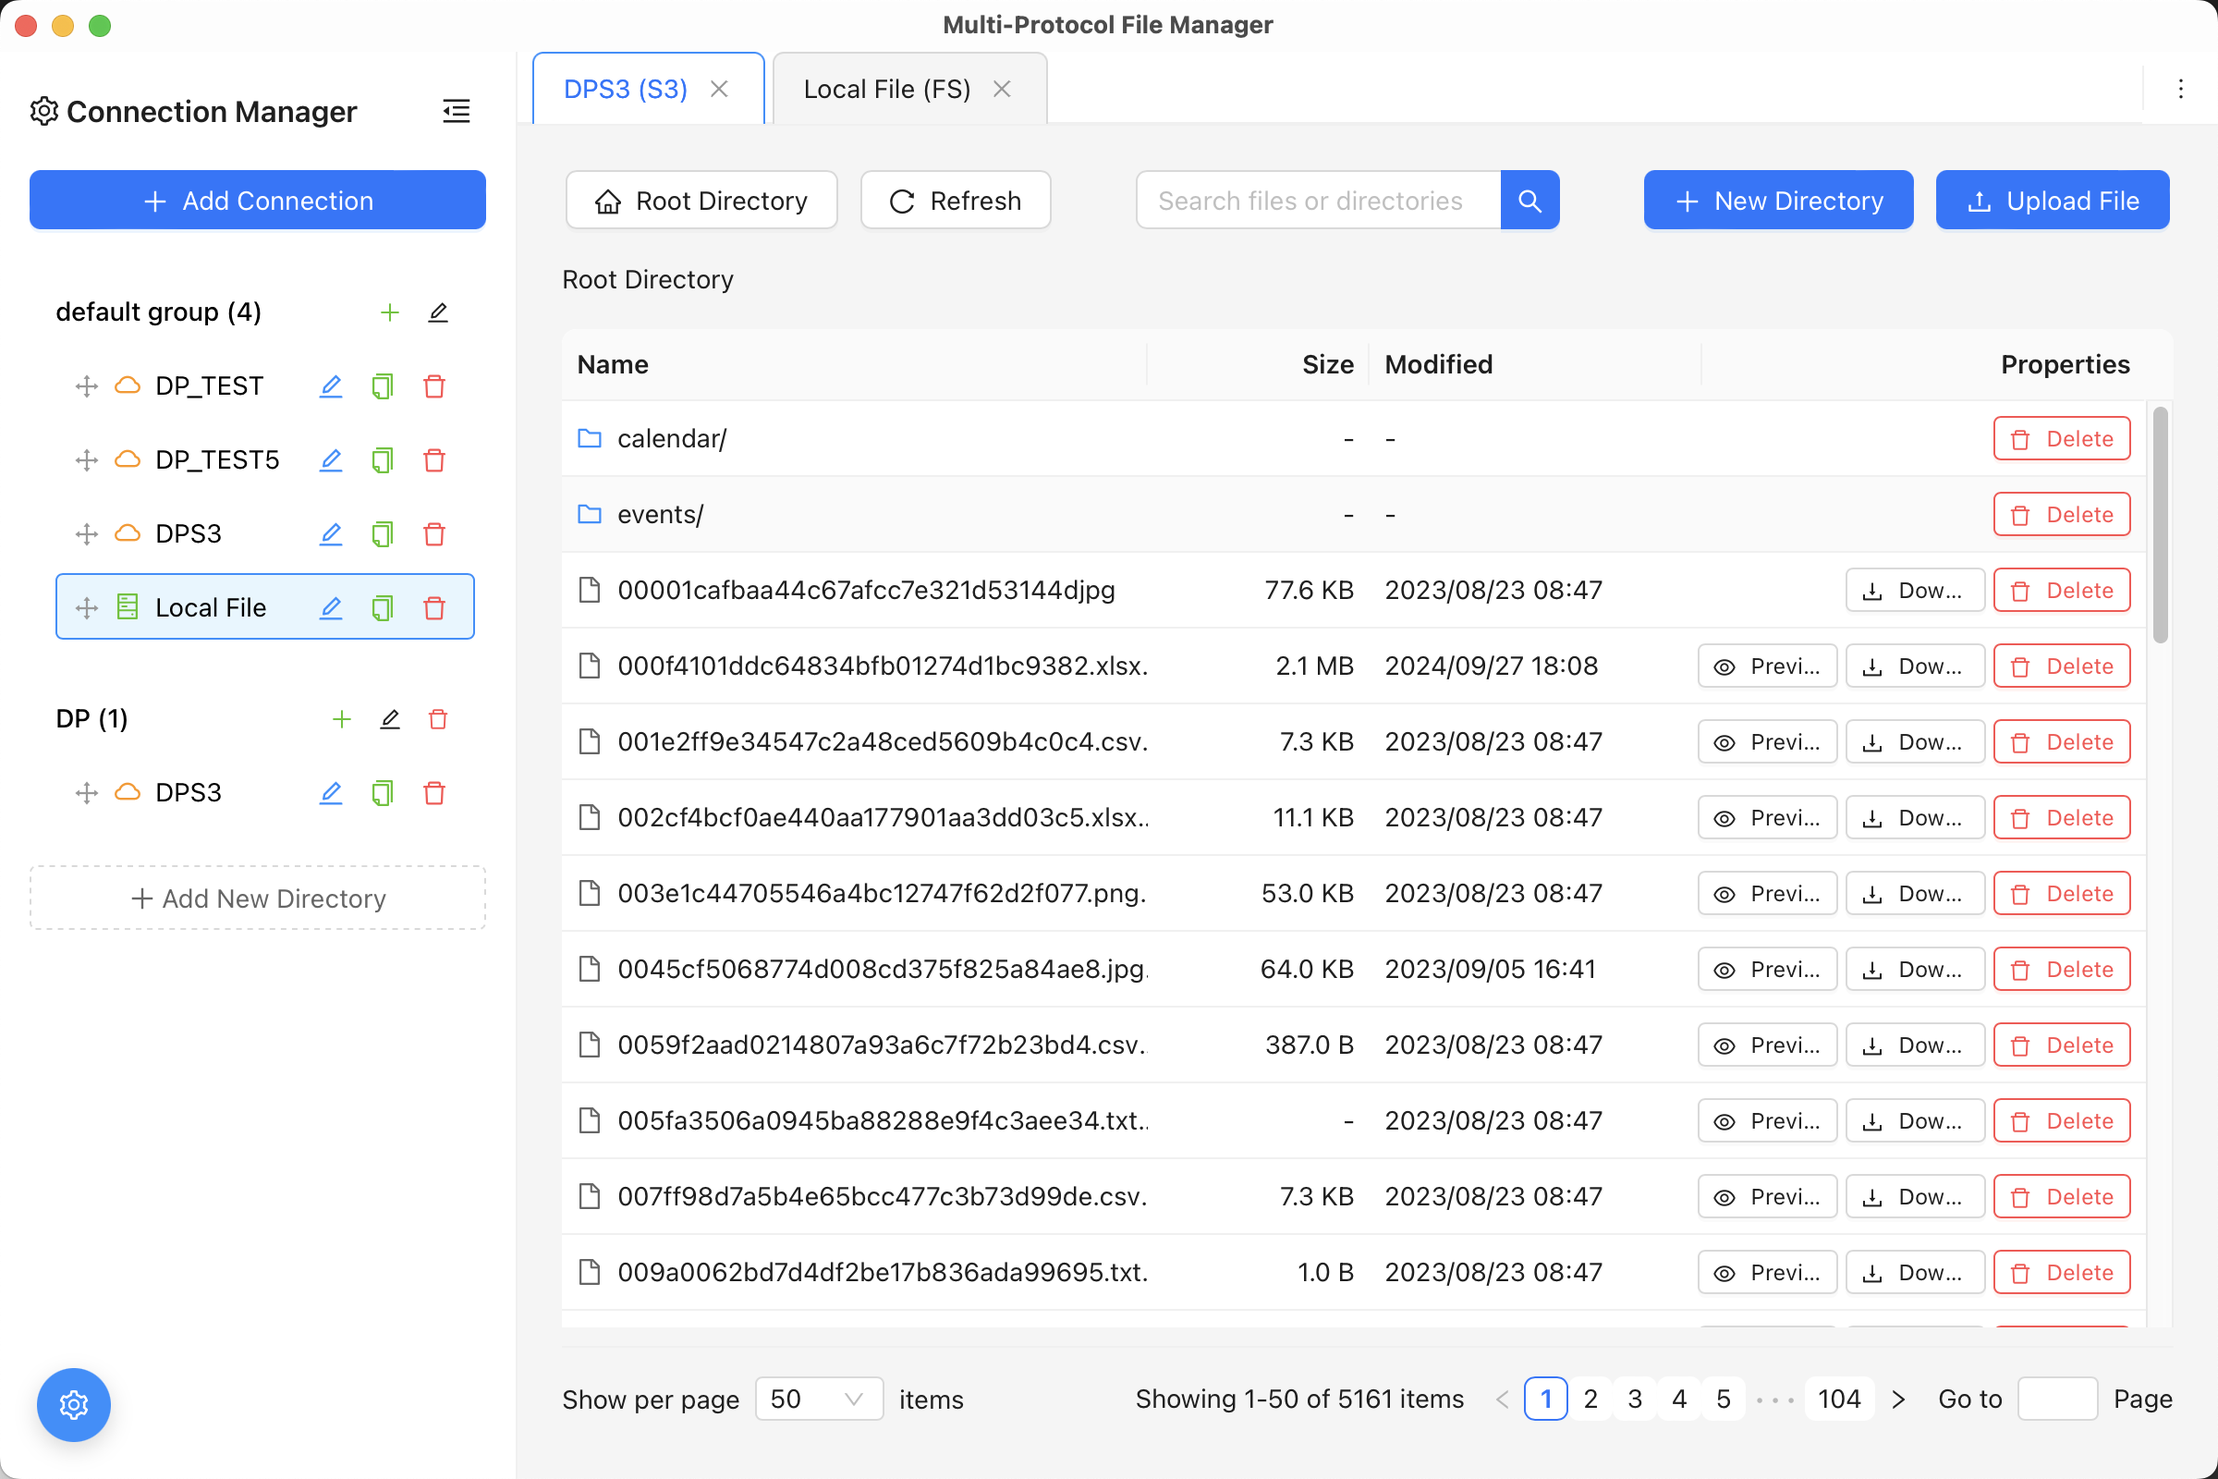
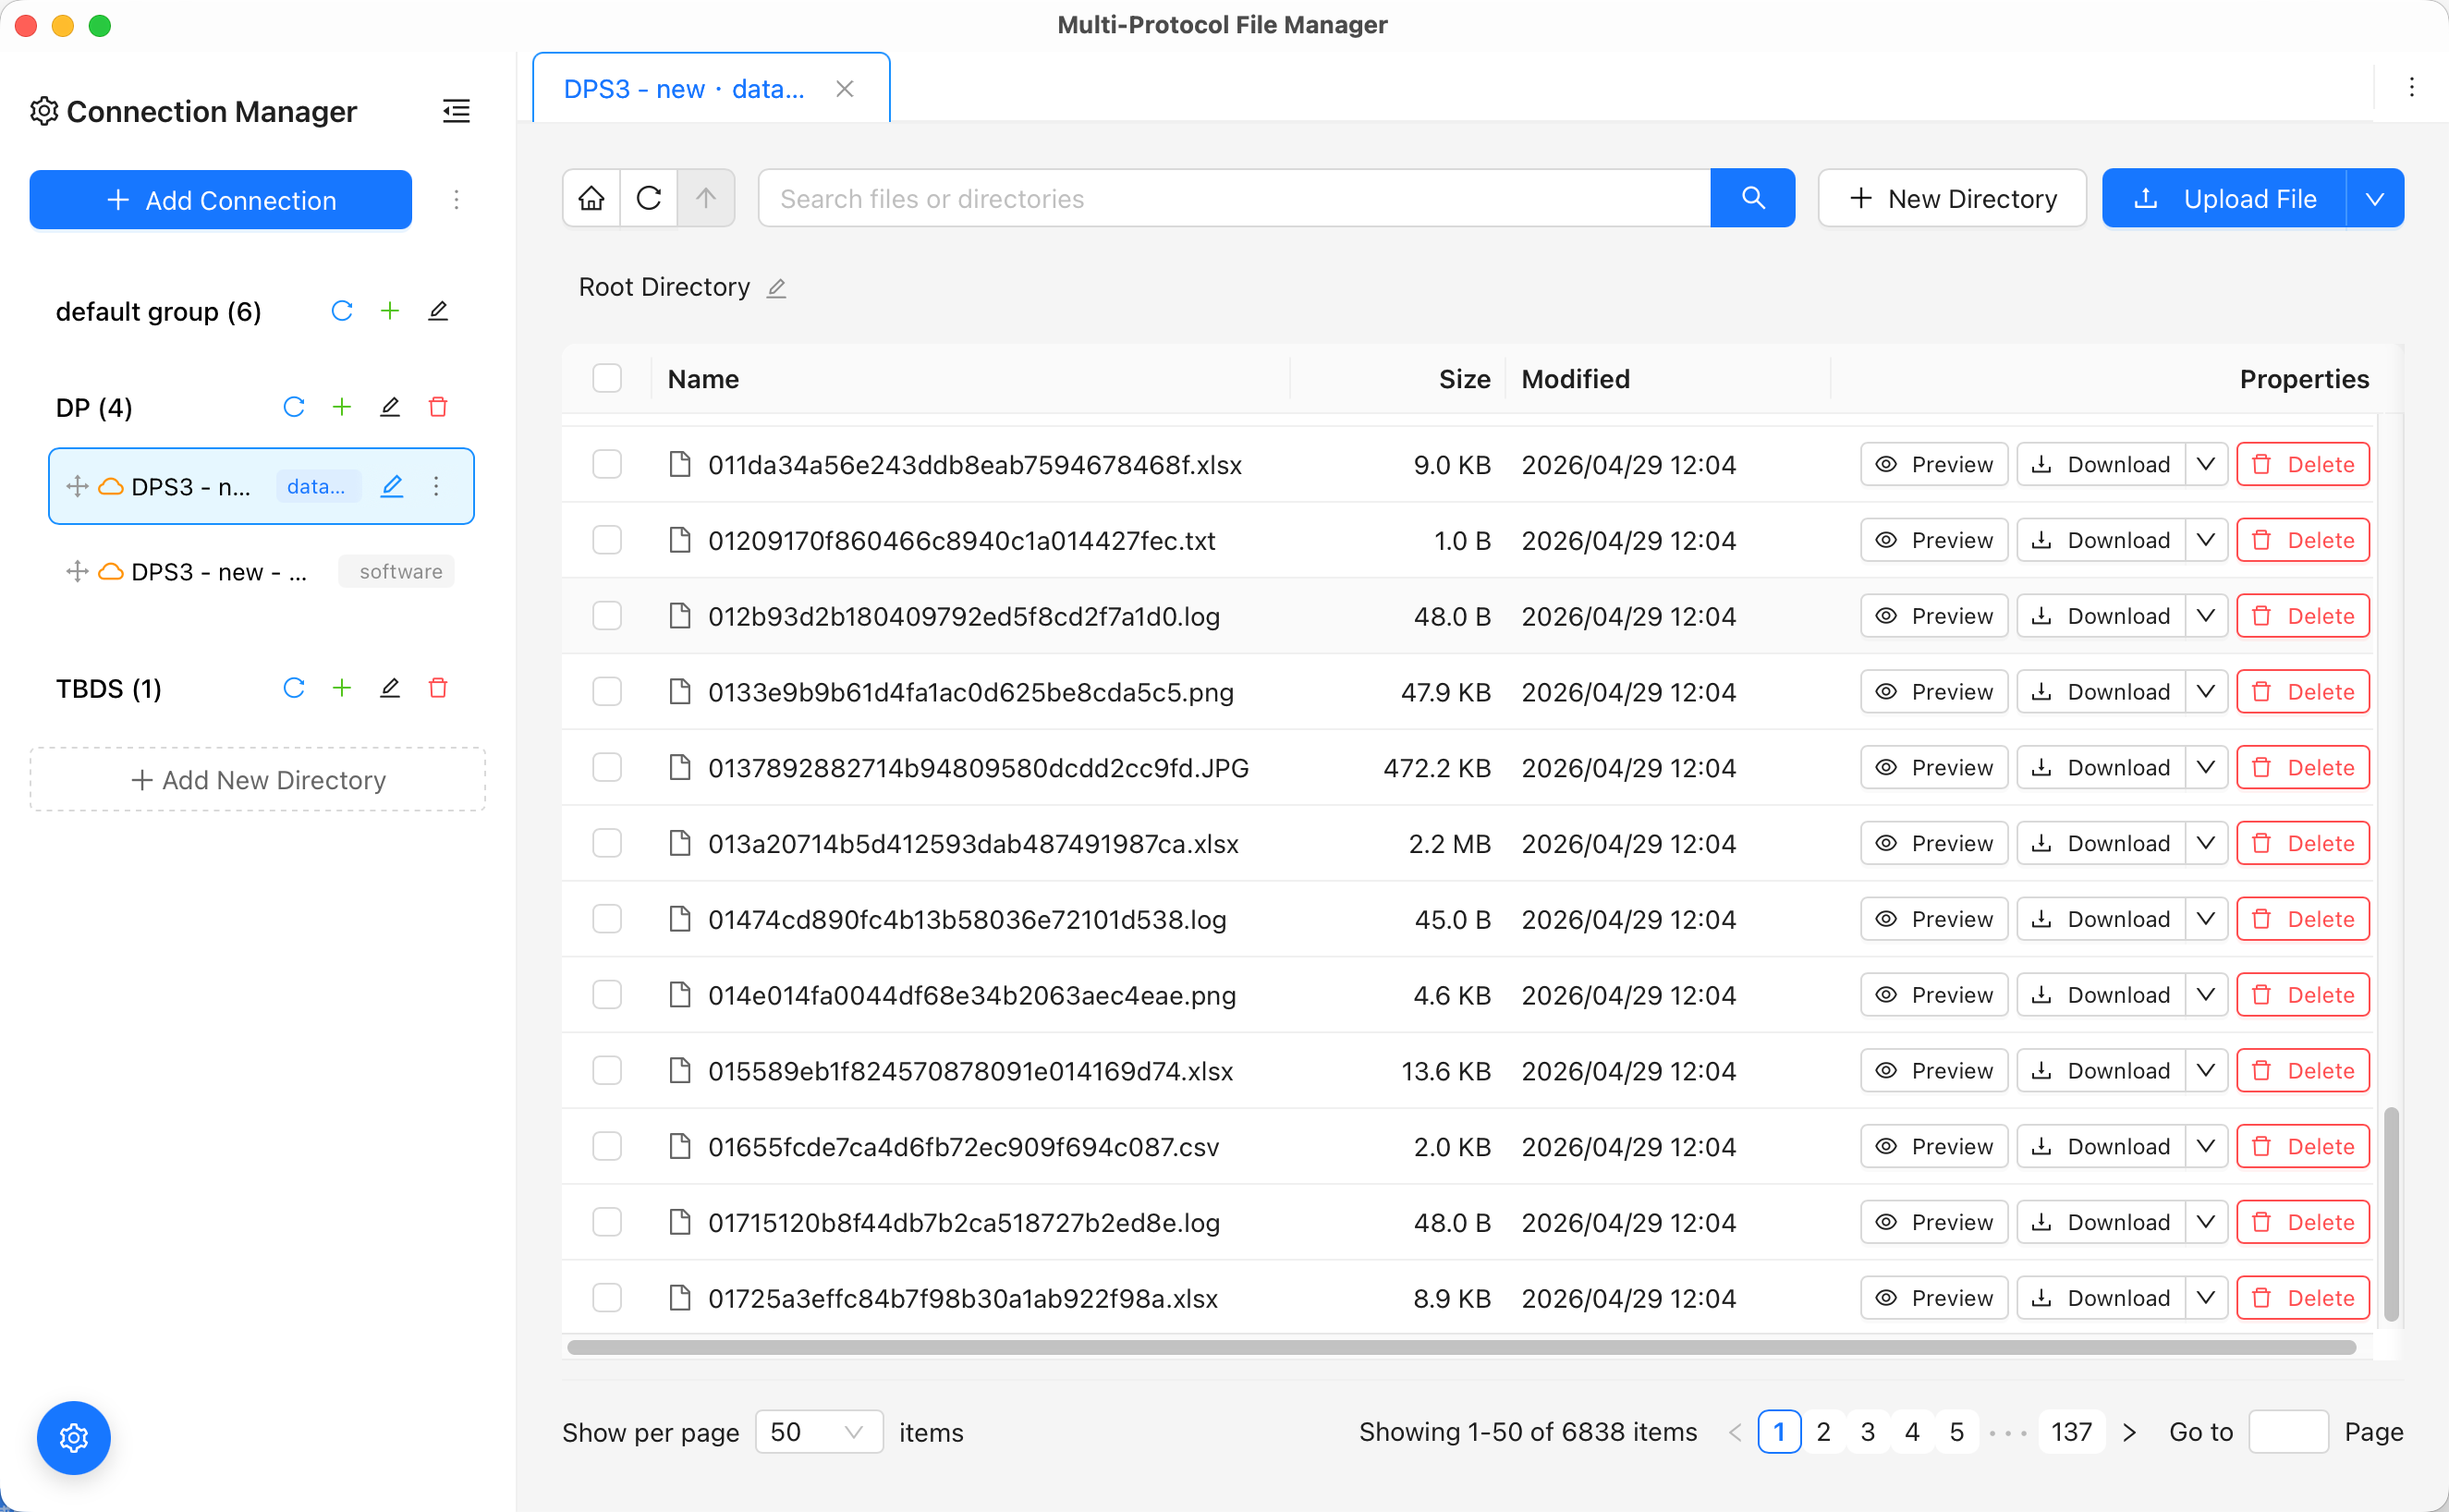
feat: enhance FileManager layout and table height calculation

diff --git a/ui/src/components/FileManager/hooks/useTableHeight.ts b/ui/src/components/FileManager/hooks/useTableHeight.ts
@@ -1,26 +1,47 @@
-import { useEffect } from 'react';
-import { calculateTableHeight } from '../utils';
-import { RESERVED_HEIGHT, MIN_TABLE_HEIGHT, MAX_TABLE_HEIGHT } from '../constants';
+import { useEffect, type RefObject, type DependencyList } from 'react';
+import { MIN_TABLE_HEIGHT } from '../constants';
+
+/** Ant Design small Table 表头高度（首次渲染 thead 尚未挂载时的回退值） */
+const TABLE_HEADER_HEIGHT_FALLBACK = 39;
 
 /**
- * 表格高度动态计算 Hook
+ * 根据表格容器实际高度动态计算 scroll.y，使表格填满 flex 剩余区域，避免底部空白。
  */
-export const useTableHeight = (onHeightChange: (height: number) => void) => {
+export const useTableHeight = (
+  containerRef: RefObject<HTMLElement | null>,
+  onHeightChange: (height: number) => void,
+  remeasureDeps: DependencyList = []
+) => {
   useEffect(() => {
-    const handleHeightCalculation = () => {
-      const height = calculateTableHeight(RESERVED_HEIGHT, MIN_TABLE_HEIGHT, MAX_TABLE_HEIGHT);
-      onHeightChange(height);
+    const container = containerRef.current;
+    if (!container) return;
+
+    const updateHeight = () => {
+      const containerHeight = container.clientHeight;
+      if (containerHeight <= 0) return;
+
+      const header = container.querySelector('.ant-table-thead');
+      const headerHeight =
+        header?.getBoundingClientRect().height ?? TABLE_HEADER_HEIGHT_FALLBACK;
+      const scrollHeight = Math.floor(containerHeight - headerHeight);
+
+      if (scrollHeight >= MIN_TABLE_HEIGHT) {
+        onHeightChange(scrollHeight);
+      }
     };
 
-    // 初始计算
-    handleHeightCalculation();
-    
-    // 监听窗口大小变化
-    window.addEventListener('resize', handleHeightCalculation);
-    
-    // 清理事件监听器
+    const observer = new ResizeObserver(() => {
+      requestAnimationFrame(updateHeight);
+    });
+    observer.observe(container);
+
+    updateHeight();
+    const timer = window.setTimeout(updateHeight, 0);
+
     return () => {
-      window.removeEventListener('resize', handleHeightCalculation);
+      observer.disconnect();
+      window.clearTimeout(timer);
     };
-  }, [onHeightChange]);
+    // eslint-disable-next-line react-hooks/exhaustive-deps
+  }, [containerRef, onHeightChange, ...remeasureDeps]);
 };

diff --git a/ui/src/components/FileManager/FileManagerModular.tsx b/ui/src/components/FileManager/FileManagerModular.tsx
@@ -1,4 +1,4 @@
-import React, { useEffect, useCallback, useMemo } from 'react';
+import React, { useEffect, useCallback, useMemo, useRef } from 'react';
 import { Layout, Table, Modal, Input, Typography, Spin } from 'antd';
 import { useAppI18n } from '../../i18n/hooks/useI18n';
 import FilePreview from '../FilePreview';
@@ -41,12 +41,18 @@ const FileManager: React.FC<FileManagerProps> = ({ connection }) => {
   const { state, updateState, updateMultipleState, resetState } = useFileManagerState();
   const fileSelection = useFileSelection();
 
-  // 表格高度计算
+  // 表格高度：按容器实际高度计算，填满 flex 剩余区域
+  const tableContainerRef = useRef<HTMLDivElement>(null);
   const handleHeightChange = useCallback((height: number) => {
     updateState('tableHeight', height);
   }, [updateState]);
-  
-  useTableHeight(handleHeightChange);
+
+  useTableHeight(tableContainerRef, handleHeightChange, [
+    state.loading,
+    state.files.length,
+    state.searchResults.length,
+    fileSelection.selectedFiles.size,
+  ]);
 
   // 文件操作
   const fileOperations = useFileOperations(
@@ -172,7 +178,7 @@ const FileManager: React.FC<FileManagerProps> = ({ connection }) => {
       height: '100%',
       display: 'flex',
       flexDirection: 'column',
-      overflow: 'auto'
+      overflow: 'hidden'
     }}>
       {/* 工具栏 */}
       <Toolbar
@@ -208,14 +214,10 @@ const FileManager: React.FC<FileManagerProps> = ({ connection }) => {
       />
 
       {/* 文件表格 */}
-      <div style={{ 
-        flex: 1, 
-        display: 'flex', 
-        flexDirection: 'column', 
-        minHeight: 0,
-        overflow: 'hidden',
-        marginBottom: '5px'
-      }}>
+      <div
+        ref={tableContainerRef}
+        className="file-manager-table-container"
+      >
         <Spin spinning={state.loading}>
           <Table
             columns={columns}

diff --git a/ui/src/components/FileManager/FileManager.css b/ui/src/components/FileManager/FileManager.css
@@ -1,3 +1,12 @@
+.file-manager-table-container {
+  flex: 1;
+  display: flex;
+  flex-direction: column;
+  min-height: 0;
+  overflow: hidden;
+  margin-bottom: 5px;
+}
+
 .file-manager-actions {
   display: flex;
   justify-content: flex-end;

diff --git a/ui/src/components/FileManager/hooks/useFileManagerState.ts b/ui/src/components/FileManager/hooks/useFileManagerState.ts
@@ -84,7 +84,6 @@ export const useFileManagerState = () => {
       batchDownloadProgress: null,
       uploadVisible: false,
       uploadProgress: null,
-      tableHeight: DEFAULT_TABLE_HEIGHT,
     });
   }, []);
 
